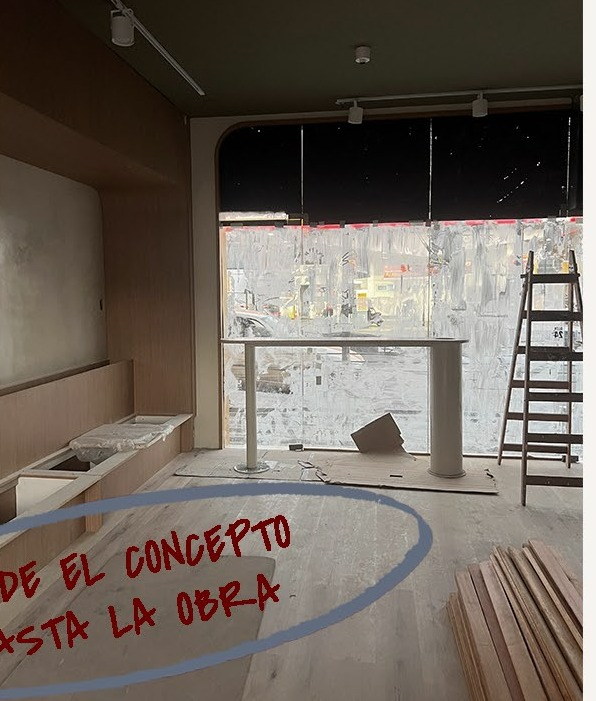
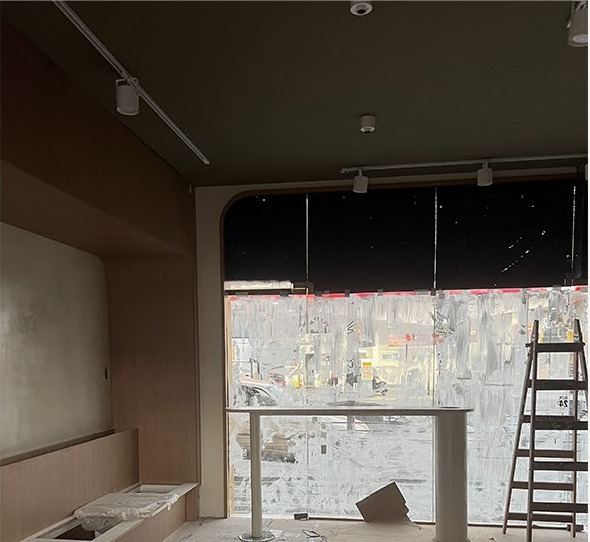
Aplicar feedback de Sofía: recorte de fotos Obra/Taller, mesa HAUS, foco en arquitectura
- Recorta sofia_workshop.jpg y sofia_construction.jpg para eliminar el texto de anotación cortado que quedaba visible en las tarjetas mini-collage de El Estudio
- Renombra la mesa redonda de "Mesa QBO" a "Mesa HAUS" (la QBO real es otra mesa rectangular, pendiente de foto)
- Elimina la tarjeta de producto "Mesas de comedor" (pasa a formar parte del interiorismo, no un producto aparte)
- Ajusta el título y el eyebrow del hero para mencionar "arquitectura" además de diseño

diff --git a/index.html b/index.html
@@ -3,7 +3,7 @@
 <head>
 <meta charset="UTF-8">
 <meta name="viewport" content="width=device-width, initial-scale=1.0">
-<title>Aparente — Estudio de diseño</title>
+<title>Aparente — Estudio de arquitectura y diseño</title>
 <meta name="description" content="Aparente. Arquitectura interior, mobiliario a medida y terrazo de autor. Arq. Sofía Coronato, Córdoba.">
 <link rel="preconnect" href="https://fonts.googleapis.com">
 <link rel="preconnect" href="https://fonts.gstatic.com" crossorigin>
@@ -333,7 +333,6 @@
   .product-grid{
     display:grid;grid-template-columns:repeat(4,1fr);gap:26px;margin-top:44px;
   }
-  @media (min-width:961px){.product-grid > article:nth-child(5):last-child{grid-column:2 / span 2;}}
   @media (max-width:960px){.product-grid{grid-template-columns:1fr 1fr;}}
   @media (max-width:560px){.product-grid{grid-template-columns:1fr;}}
 
@@ -563,7 +562,7 @@
   <div class="bg"></div>
   <div class="duotone"></div>
   <div class="content">
-    <div class="eyebrow">Estudio de diseño — Córdoba, Argentina</div>
+    <div class="eyebrow">Estudio de arquitectura y diseño — Córdoba, Argentina</div>
     <h1>APARENTE</h1>
     <div class="sub">
       <p>Mirar no es <span class="script" style="color:#E9C7A8">entender</span>.</p>
@@ -646,33 +645,16 @@
       <article class="product-card">
         <div class="product-photo carousel" data-carousel>
           <div class="carousel-track">
-            <img src="assets/img/terrazo_mate_terraza.jpg" alt="Mesa QBO en una terraza, con mate y termo" loading="lazy">
-            <img src="assets/img/terrazo_mesa_living.jpg" alt="Mesa QBO en un living, con café y un libro" loading="lazy">
+            <img src="assets/img/terrazo_mate_terraza.jpg" alt="Mesa HAUS en una terraza, con mate y termo" loading="lazy">
+            <img src="assets/img/terrazo_mesa_living.jpg" alt="Mesa HAUS en un living, con café y un libro" loading="lazy">
           </div>
           <div class="carousel-dots"><button class="dot active"></button><button class="dot"></button></div>
           <button class="carousel-prev" aria-label="Foto anterior">‹</button>
           <button class="carousel-next" aria-label="Foto siguiente">›</button>
         </div>
         <span class="product-tag">Terrazo de autor</span>
-        <h3>Mesa QBO</h3>
+        <h3>Mesa HAUS</h3>
         <p>Mesa ratona redonda, terrazo a medida sobre base metálica.</p>
-        <a class="product-cta" href="https://wa.link/awn3f1" target="_blank" rel="noopener">Consultar esta pieza →</a>
-      </article>
-
-      <article class="product-card">
-        <div class="product-photo carousel" data-carousel>
-          <div class="carousel-track">
-            <img src="assets/img/servicios_comedor_hero.jpg" alt="Mesa de comedor a medida" loading="lazy">
-            <img src="assets/img/servicios_comedor_detalle.jpg" alt="Detalle de silla de caña" loading="lazy">
-            <img src="assets/img/servicios_comedor_lamparas_wide.jpg" alt="Comedor con lámparas de papel" loading="lazy">
-          </div>
-          <div class="carousel-dots"><button class="dot active"></button><button class="dot"></button><button class="dot"></button></div>
-          <button class="carousel-prev" aria-label="Foto anterior">‹</button>
-          <button class="carousel-next" aria-label="Foto siguiente">›</button>
-        </div>
-        <span class="product-tag">Mobiliario a medida</span>
-        <h3>Mesas de comedor</h3>
-        <p>Diseñadas a medida de tu espacio, en el material y la madera que elijas.</p>
         <a class="product-cta" href="https://wa.link/awn3f1" target="_blank" rel="noopener">Consultar esta pieza →</a>
       </article>
 
